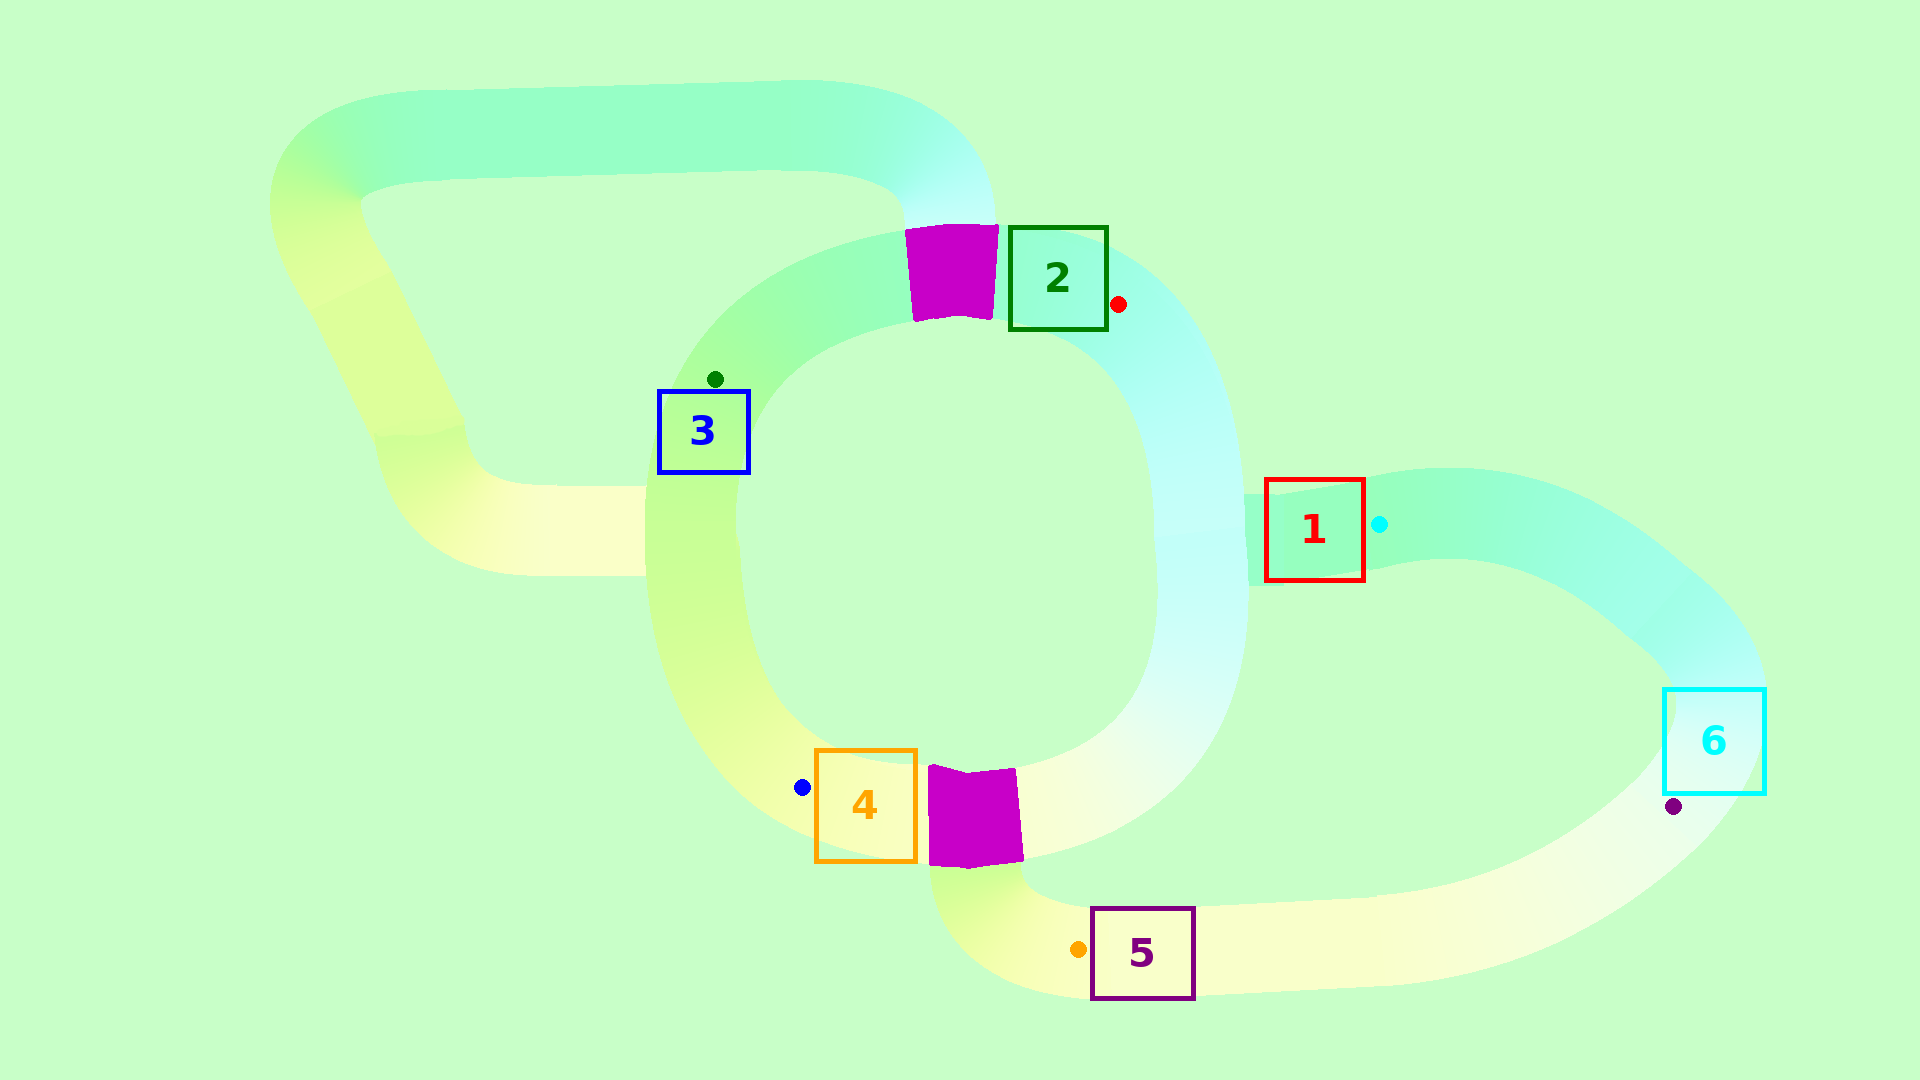
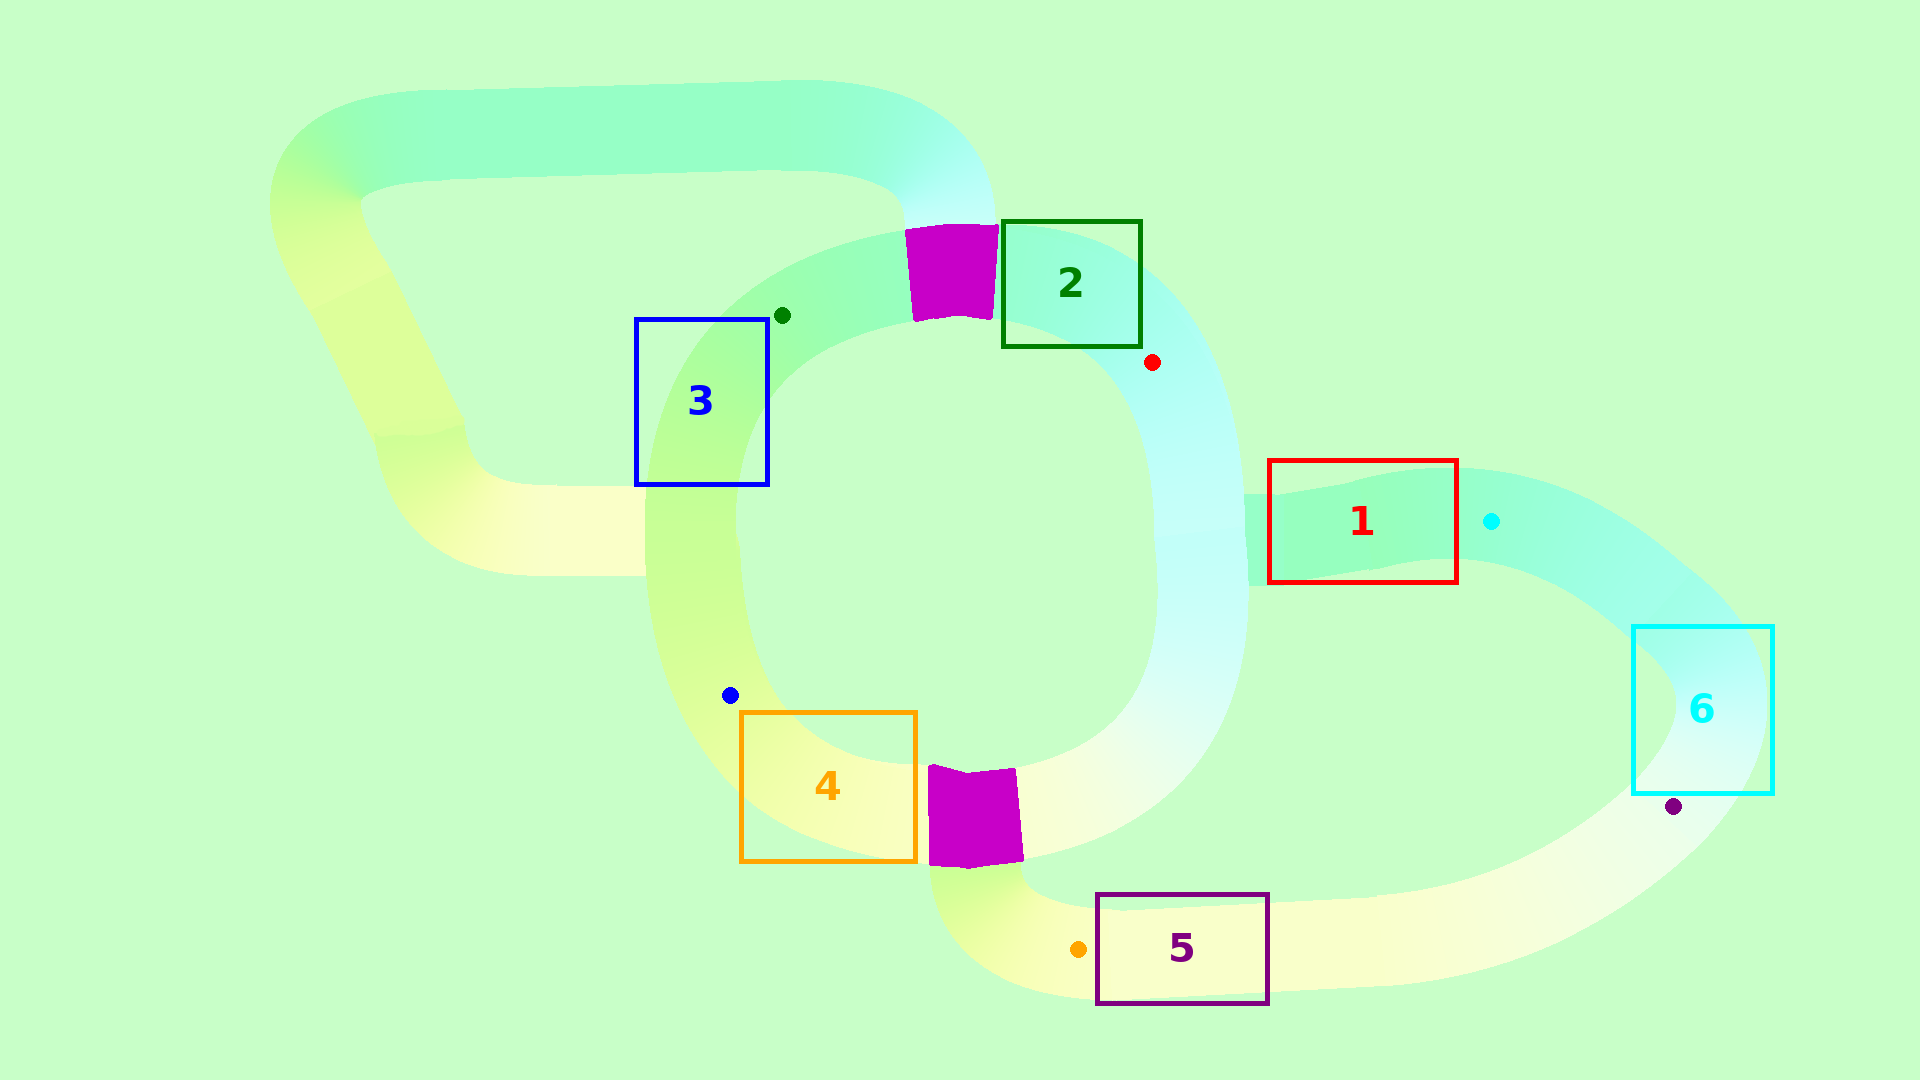
Better scenarios

diff --git a/scripts/generate_scenario.py b/scripts/generate_scenario.py
@@ -73,23 +73,22 @@ if __name__ == "__main__":
     scenarios = [
         Scenario(
             sections=[
-                Section((1264, 477), (1365, 582), (1118, 304)),
-                Section((1008, 225), (1108, 331), (715, 379)),
-                Section((657, 389), (750, 474), (802, 787)),
-                Section((814, 748), (917, 863), (1078, 949)),
-                Section((1090, 906), (1195, 1000), (1673, 806)),
-                Section((1662, 687), (1766, 795), (1379, 524)),
+                Section((1267, 458), (1458, 584), (1152, 362)),
+                Section((1001, 219), (1142, 348), (782, 315)),
+                Section((634, 317), (769, 486), (730, 695)),
+                Section((739, 710), (917, 863), (1078, 949)),
+                Section((1095, 892), (1269, 1005), (1673, 806)),
+                Section((1631, 624), (1774, 795), (1491, 521)),
             ],
             num_of_agents=2
         ),
         Scenario(
             sections=[
-                Section((1073, 262), (1189, 363), (785, 120)),
-                Section((645, 77), (771, 168), (329, 242)),
-                Section((277, 253), (422, 340), (519, 526)),
-                Section((532, 480), (629, 576), (725, 687)),
-                Section((684, 698), (814, 810), (1092, 780)),
-                Section((1101, 703), (1211, 800), (1158, 374)),
+                Section((1134, 433), (1246, 580), (859, 129)),
+                Section((695, 79), (846, 178), (321, 207)),
+                Section((265, 220), (439, 359), (662, 539)),
+                Section((641, 561), (773, 687), (1010, 813)),
+                Section((1029, 718), (1196, 835), (1196, 592)),
 
             ],
             num_of_agents=2

diff --git a/code/turtlesim_env_base.py b/code/turtlesim_env_base.py
@@ -133,7 +133,7 @@ class TurtlesimEnvBase(metaclass=abc.ABCMeta):
         sys.exit(0)
     def get_road(self,tname):
         agent = self.agents[tname]
-        print(tname,agent.color_api)
+        # print(tname,agent.color_api)
         rospy.sleep(self.WAIT_AFTER_MOVE)                       # bez tego color_api.check() nie wyrabia
         color = agent.color_api.check()                         # kolor planszy pod żółwiem
         fx = .02*(color.r-200)                                  # składowa x zalecanej prędkości <-1;1>
